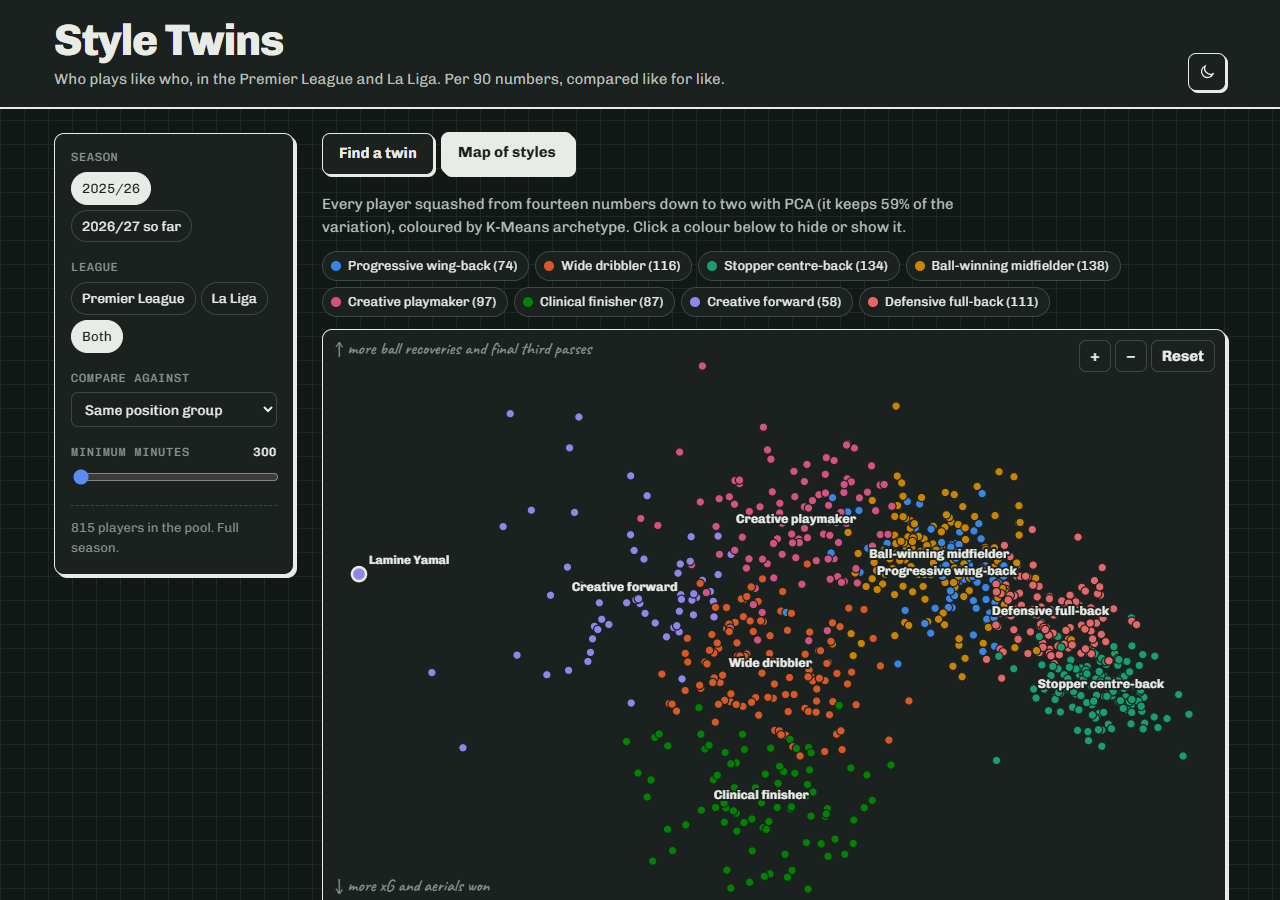
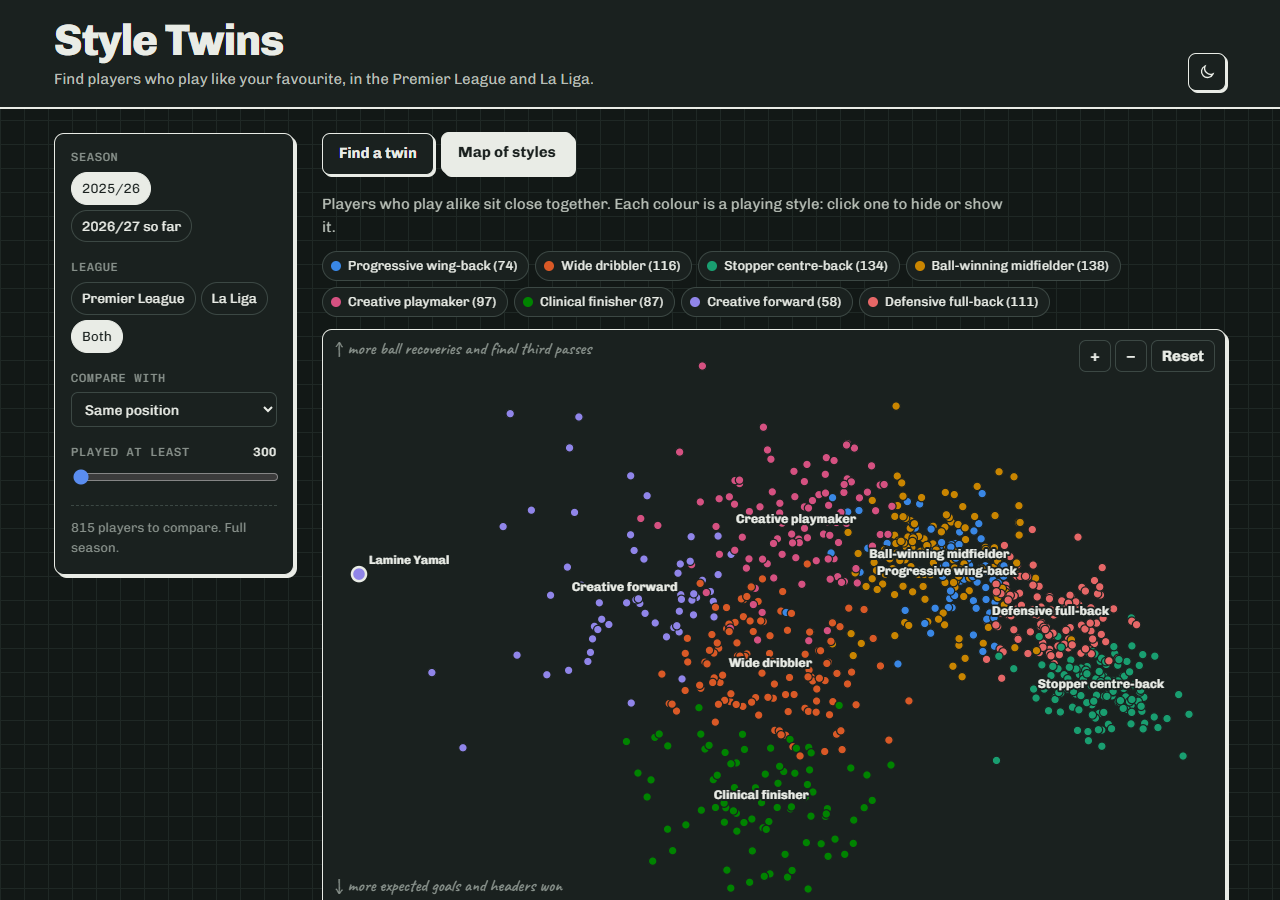
Start the README with what the site does and how to use it
The technical write-up stays, it just comes after a few plain lines.
Screenshots retaken with the new layout.

diff --git a/README.md b/README.md
@@ -1,14 +1,21 @@
 # player-similarity-scout
 
-Who plays like who? This takes every outfield player with 300+ minutes in the Premier League and La Liga, turns their season into fourteen per 90 numbers, and finds each player's closest statistical twins. It also sorts everyone into eight playing styles with K-Means and draws the whole lot on a map.
+Who plays like who? **Style Twins** finds Premier League and La Liga players with the same playing style as the one you look up, and puts everyone on one map of playing styles.
 
-I called the site Style Twins. Search a player, get their five closest matches with a percentage, and overlay any of them on a radar. There's a second tab with the map of styles and a card for each archetype.
+![Lamine Yamal's closest twins](docs/screenshot-twins.png)
 
-![Lamine Yamal and his closest twins](docs/screenshot-twins.png)
+## Using it
+
+1. Type a player into the search box, or tap one of the names under it.
+2. The card tells you who they play most like, and the list shows their five closest matches.
+3. Click a match to lay the two players over each other on the radar. The further out, the better they are at that thing.
+4. **Map of styles** shows every player at once, coloured by playing style. Click a dot to look that player up.
+
+The maths is folded away under **For the stats nerds** at the bottom of the map tab. The rest of this README is the technical side.
 
 ## Some twins it found
 
-All from 2025/26, same position group, both leagues:
+Under the hood it takes every outfield player with 300+ minutes, turns their season into fourteen per 90 numbers, and finds each player's closest statistical twins. It also sorts everyone into eight playing styles with K-Means and draws the whole lot on a map. All of these are from 2025/26, same position group, both leagues:
 
 | Player | Closest matches |
 |---|---|
@@ -24,7 +31,7 @@ Yamal's twin being Pépé says a lot about what cosine similarity measures. It c
 
 **Data.** Season totals from Sofascore for both leagues, 2025/26 in full plus 2026/27 so far. Every counting stat is divided by minutes and scaled to 90, so a rotation player and an ever-present can be compared, and anyone under 300 minutes is dropped. The fourteen numbers: goals, xG, shots, assists, xA, key passes, big chances created, successful dribbles, final third passes, tackles won, interceptions, ball recoveries, clearances, aerial duels won.
 
-Two of those are stand-ins. Progressive carries and shot creating actions aren't in any free source any more (FBref lost its Opta data in January 2026), so final third passes and big chances created take their places. The site says so wherever they show up.
+Two of those are stand-ins. Progressive carries and shot creating actions aren't in any free source any more (FBref lost its Opta data in January 2026), so final third passes and big chances created take their places. The site says so in its nerd section. On the main screens the stats have plain names (expected goals rather than xG, headers won rather than aerials) with a one line explanation when you hover them.
 
 **Positions.** Sofascore's position groups are too rough: they put Yamal and Palmer in midfield and Saka up front. Positions come from the [transfermarkt-datasets](https://github.com/dcaribou/transfermarkt-datasets) snapshot instead (Right Winger, Attacking Midfield, Centre-Back...), matched by name, and grouped into attackers, midfielders and defenders. 805 of 815 matched. The rest keep Sofascore's group.
 
